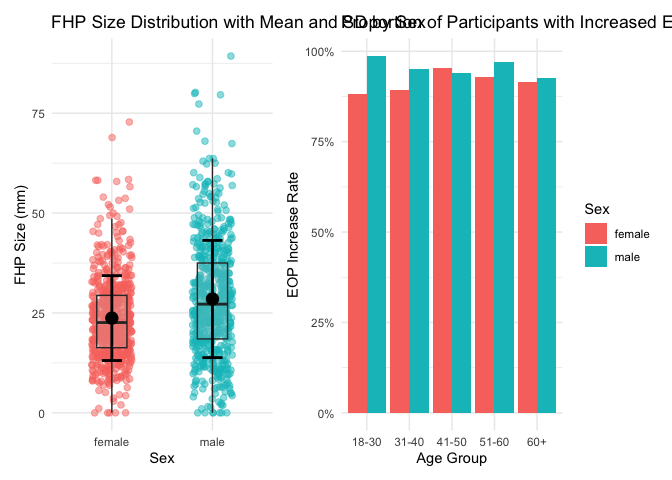
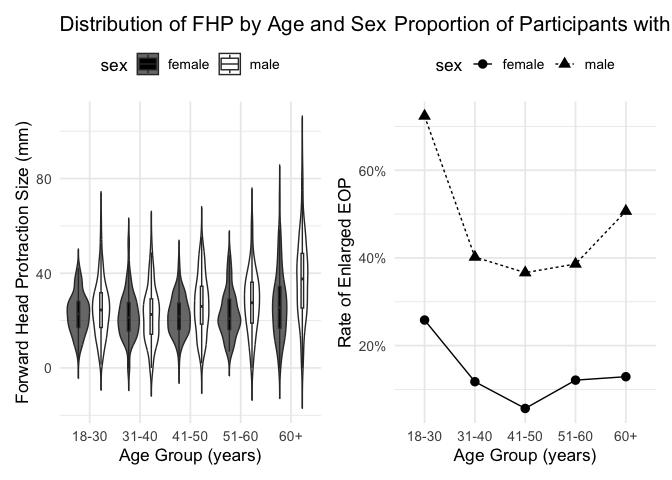
Second submit!

diff --git a/p8105_mtp_cz2955.md b/p8105_mtp_cz2955.md
@@ -126,54 +126,45 @@ correspondence. (2) The boundary is ambiguous. For instance, within
 ### (a):
 
 ``` r
-data_filtered <- data_clean %>%
-  mutate(age_group = droplevels(age_group))
-
-p3 <- ggplot(data_filtered, aes(x = sex, y = fhp_size_mm)) +
-  geom_jitter(aes(color = sex), width = 0.2, alpha = 0.5, size = 2) +
-  geom_boxplot(alpha = 0.2, width = 0.3, outlier.shape = NA, fill = "grey80") +
-  stat_summary(fun = mean, geom = "point", shape = 21, size = 4, fill = "black", color = "black") +
-  stat_summary(fun.data = mean_sdl, fun.args = list(mult = 1), 
-               geom = "errorbar", width = 0.2, size = 1, color = "black") +
-  labs(
-    x = "Sex",
-    y = "FHP Size (mm)",
-    title = "FHP Size Distribution with Mean and SD by Sex"
-  ) +
-  theme_minimal() +
-  theme(legend.position = "none")
-
-
-#### Increase rate ####
 data_clean <- data_clean %>%
-  mutate(eop_increase = ifelse(eop_visibility_classification %in% c("0","1","0-5 mm"), "No Increase", "Increase")) 
+  mutate(EEOP = ifelse(eop_size_mm > 10, TRUE, FALSE))
 
-rate_data <- data_clean %>%
+p3 <- data_clean %>%
+  ggplot(aes(x = age_group, y = fhp_size_mm, fill = sex)) +
+  geom_violin(trim = FALSE, alpha = 0.6) +
+  geom_boxplot(width = 0.1, outlier.shape = NA, position = position_dodge(0.9)) +
+  labs(
+    x = "Age Group (years)",
+    y = "Forward Head Protraction Size (mm)",
+    title = "Distribution of FHP by Age and Sex"
+  ) +
+  theme_minimal(base_size = 13) +
+  theme(legend.position = "top") +
+  scale_fill_manual(values = c("black", "white"))
+
+
+p4_data <- data_clean %>%
   group_by(age_group, sex) %>%
-  summarise(
-    total = n(),
-    increase_n = sum(eop_increase == "Increase"),
-    increase_rate = increase_n / total
-  ) 
+  summarise(rate = mean(EEOP, na.rm = TRUE)) %>%
+  ungroup()
 ```
 
     ## `summarise()` has grouped output by 'age_group'. You can override using the
     ## `.groups` argument.
 
 ``` r
-########################
-
-
-p4<-ggplot(rate_data, aes(x = age_group, y = increase_rate, fill = sex)) +
-  geom_col(position = "dodge") +
+p4 <- p4_data %>%
+  ggplot(aes(x = age_group, y = rate, group = sex, shape = sex)) +
+  geom_line(aes(linetype = sex)) +
+  geom_point(size = 3, fill = "white") +
   scale_y_continuous(labels = scales::percent_format(accuracy = 1)) +
   labs(
-    x = "Age Group",
-    y = "EOP Increase Rate",
-    title = "Proportion of Participants with Increased EOP by Age and Sex",
-    fill = "Sex"
+    x = "Age Group (years)",
+    y = "Rate of Enlarged EOP",
+    title = "Proportion of Participants with Enlarged EOP"
   ) +
-  theme_minimal()
+  theme_minimal(base_size = 13) +
+  theme(legend.position = "top")
 
 p3 + p4
 ```
